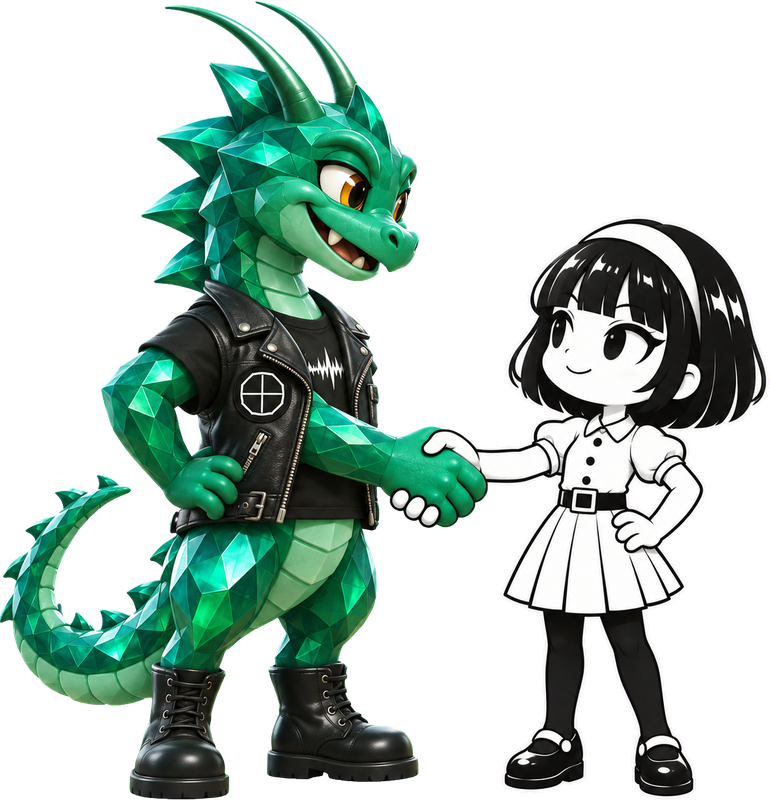
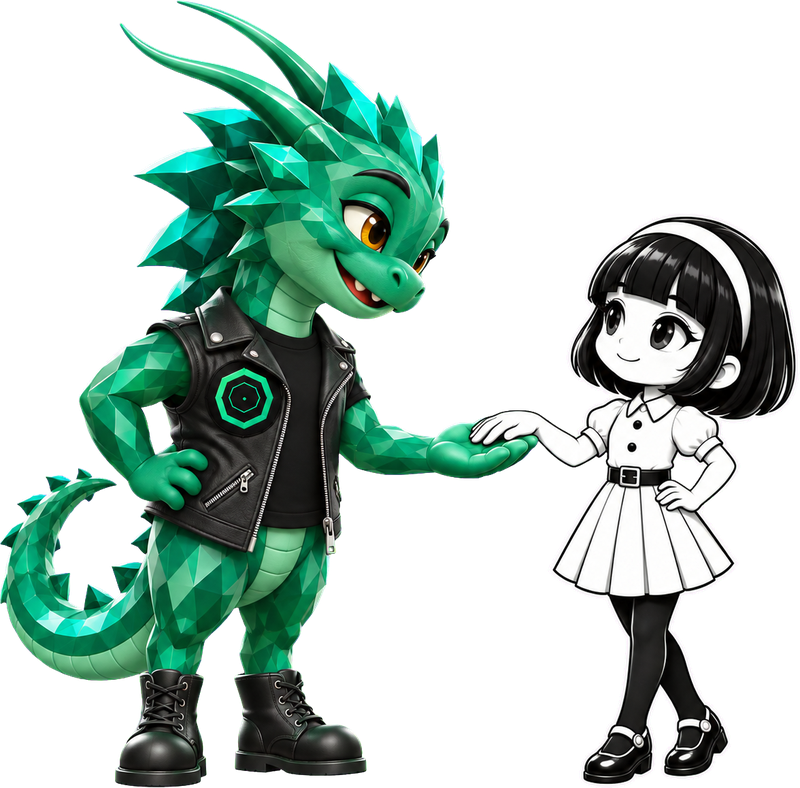
docs: redraw the mascot, the dragon taking the Nous Girl's hand

diff --git a/README.md b/README.md
@@ -1,6 +1,6 @@
 # SolverForge Planner for Hermes
 
-<p align="center"><img src="docs/assets/mascot.png" alt="The SolverForge dragon shaking hands with the Nous Girl" width="320"></p>
+<p align="center"><img src="docs/assets/mascot.png" alt="The SolverForge dragon taking the Nous Girl's hand" width="320"></p>
 
 **Tell Hermes what you need to get done. A constraint solver fits it into your week around your
 meetings and deadlines, and proves every hard rule holds before anything goes on your calendar.**
